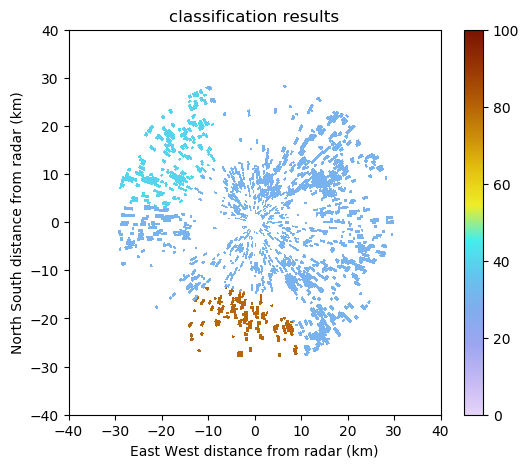
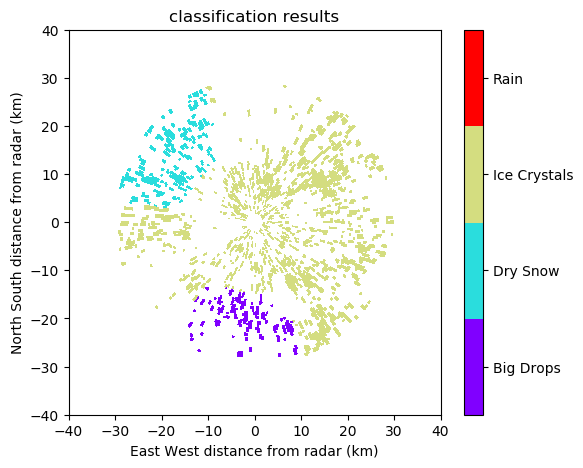
update the viz code

diff --git a/test_NEXRAD.bak1.py b/test_NEXRAD.bak1.py
@@ -16,6 +16,7 @@ import numpy as np
 import numpy.ma as ma
 import matplotlib
 import matplotlib.pyplot as plt
+from matplotlib.colors import ListedColormap
 matplotlib.rcParams['figure.figsize'] = [35.0, 35.0]
 import os
 import argparse
@@ -27,17 +28,8 @@ from torchvision import transforms
 from datasets.nexradtest import *
 import models
 
-def discrete_cmap(N, base_cmap=None):
-    """Create an N-bin discrete colormap from the specified input map"""
-
-    # Note that if base_cmap is a string or None, you can simply do
-    #    return plt.cm.get_cmap(base_cmap, N)
-    # The following works for string, None, or a colormap instance:
-
-    base = plt.cm.get_cmap(base_cmap)
-    color_list = base(np.linspace(0, 1, N))
-    cmap_name = base.name + str(N)
-    return base.from_list(cmap_name, color_list, N)
+#discrete color scheme
+cMap = ListedColormap(['red', 'blue', 'yellow','green'])
 
 idx = [0, 60, 120, 180, 240, 300]
 idy = [0, 60]
@@ -288,7 +280,7 @@ def plot_res(n0h, n0c, n0k, n0r, n0x, results):
     fig = plt.figure(figsize=(6, 5))
     
     ax = fig.add_subplot(111)
-    display_h.plot('radar_echo_classification', 0, title='classification results', colorbar_label='', ticks=range(4), ticklabs=['Big Drops', 'Dry Snow', 'Ice Crystals', 'Rain'], ax=ax, vmin=-0.5, vmax=3.5, cmap=discrete_cmap(4, 'rainbow'))
+    display_h.plot('radar_echo_classification', 0, title='classification results', colorbar_label='', ax=ax, vmin=0, vmax=3, cmap=cMap)
     #display_h.plot('radar_echo_classification', 0, title='classification results', colorbar_label='', ax=ax, cmap=cMap)
     display_h.set_limits(xlim=(-40, 40), ylim=(-40, 40), ax=ax)
     plt.show();
